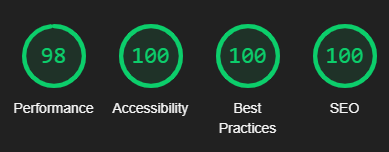
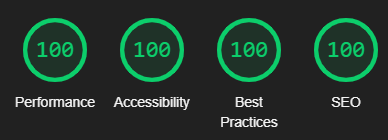
fix: adjust style in general fixing bugs in navigate post and update audits print

diff --git a/src/templates/blogPost.js b/src/templates/blogPost.js
@@ -11,12 +11,12 @@ function Template({ data, pageContext }) {
   const { title, tags, publishDate, body, heroImage } = data.contentfulBlogPost
   return (
     <Layout minimalist title={title}>
-      <div className="my-20 max-w-4xl mx-auto w-full">
+      <div className="mt-20 max-w-4xl mx-auto w-full">
         <div className="flex flex-col mb-8 justify-between">
           <h1 className="text-4xl lg:text-5xl font-normal font-display text-center">
             {title}
           </h1>
-          <div className="flex justify-between items-center">
+          <div className="flex justify-between items-center flex-wrap">
             <div className="inline space-x-4">
               {tags?.map(tag => (
                 <Tag tag={tag} />
@@ -39,7 +39,7 @@ function Template({ data, pageContext }) {
         />
       </div>
       <hr className="my-20 h-2 w-full max-w-xl mx-auto" />
-      <div className="flex justify-between w-full mx-auto mb-20">
+      <div className="flex flex-col md:flex-row space-y-20 md:space-y-0 justify-between w-full mx-auto mb-20">
         <div>
           {pageContext.prev && (
             <NavigatePost

diff --git a/src/components/navigatePost/index.js b/src/components/navigatePost/index.js
@@ -21,13 +21,14 @@ const NavigatePost = ({ title, slug, image, prev, next }) => {
             </>
           )}
         </span>
-        <div className="p-4 rounded cursor-pointer max-w-xs w-full">
+        <div className="p-4 rounded cursor-pointer max-w-xs h-40">
           <Img
             fluid={image}
-            className="rounded h-40 w-full"
+            className="rounded h-40"
+            style={{ width: 288 }}
             alt={`Ir para página do post ${title}`}
           />
-          <h4 className="hidden md:block md:text-xl lg:text-2xl font-display text-center">
+          <h4 className="hidden md:block md:text-xl lg:text-xl font-display text-center">
             {title}
           </h4>
         </div>

diff --git a/src/components/header/index.js b/src/components/header/index.js
@@ -18,7 +18,10 @@ const ReturnArrow = () => (
 const Header = ({ minimalist, title, description }) => {
   const titleClasses = classnames(
     "flex font-display md:inline px-8 font-normal text-center justify-center tracking-wide text-gray-900 duration-400 leading-tight",
-    { "text-3xl": minimalist, "text-2xl md:text-3xl lg:text-6xl": !minimalist }
+    {
+      "text-xl lg:text-3xl": minimalist,
+      "text-2xl md:text-3xl lg:text-6xl": !minimalist,
+    }
   )
   const subtitleClasses = classnames(
     "text-gray-600 font-body font-light lowercase tracking-tighter leading-none mt-1 duration-400",

diff --git a/src/components/post/index.js b/src/components/post/index.js
@@ -45,10 +45,10 @@ function Post({
           {tags?.map(tag => (
             <Tag tag={tag} key={tag} />
           ))}
-          <h6 className="inline ml-4 tracking-widest text-gray-800 font-body">
-            {dayjs(date).format("DD.MM.YYYY")}
-          </h6>
         </div>
+        <h6 className="inline ml-4 tracking-widest text-gray-800 font-body">
+          {dayjs(date).format("DD.MM.YYYY")}
+        </h6>
       </div>
       {!featured && (
         <p
